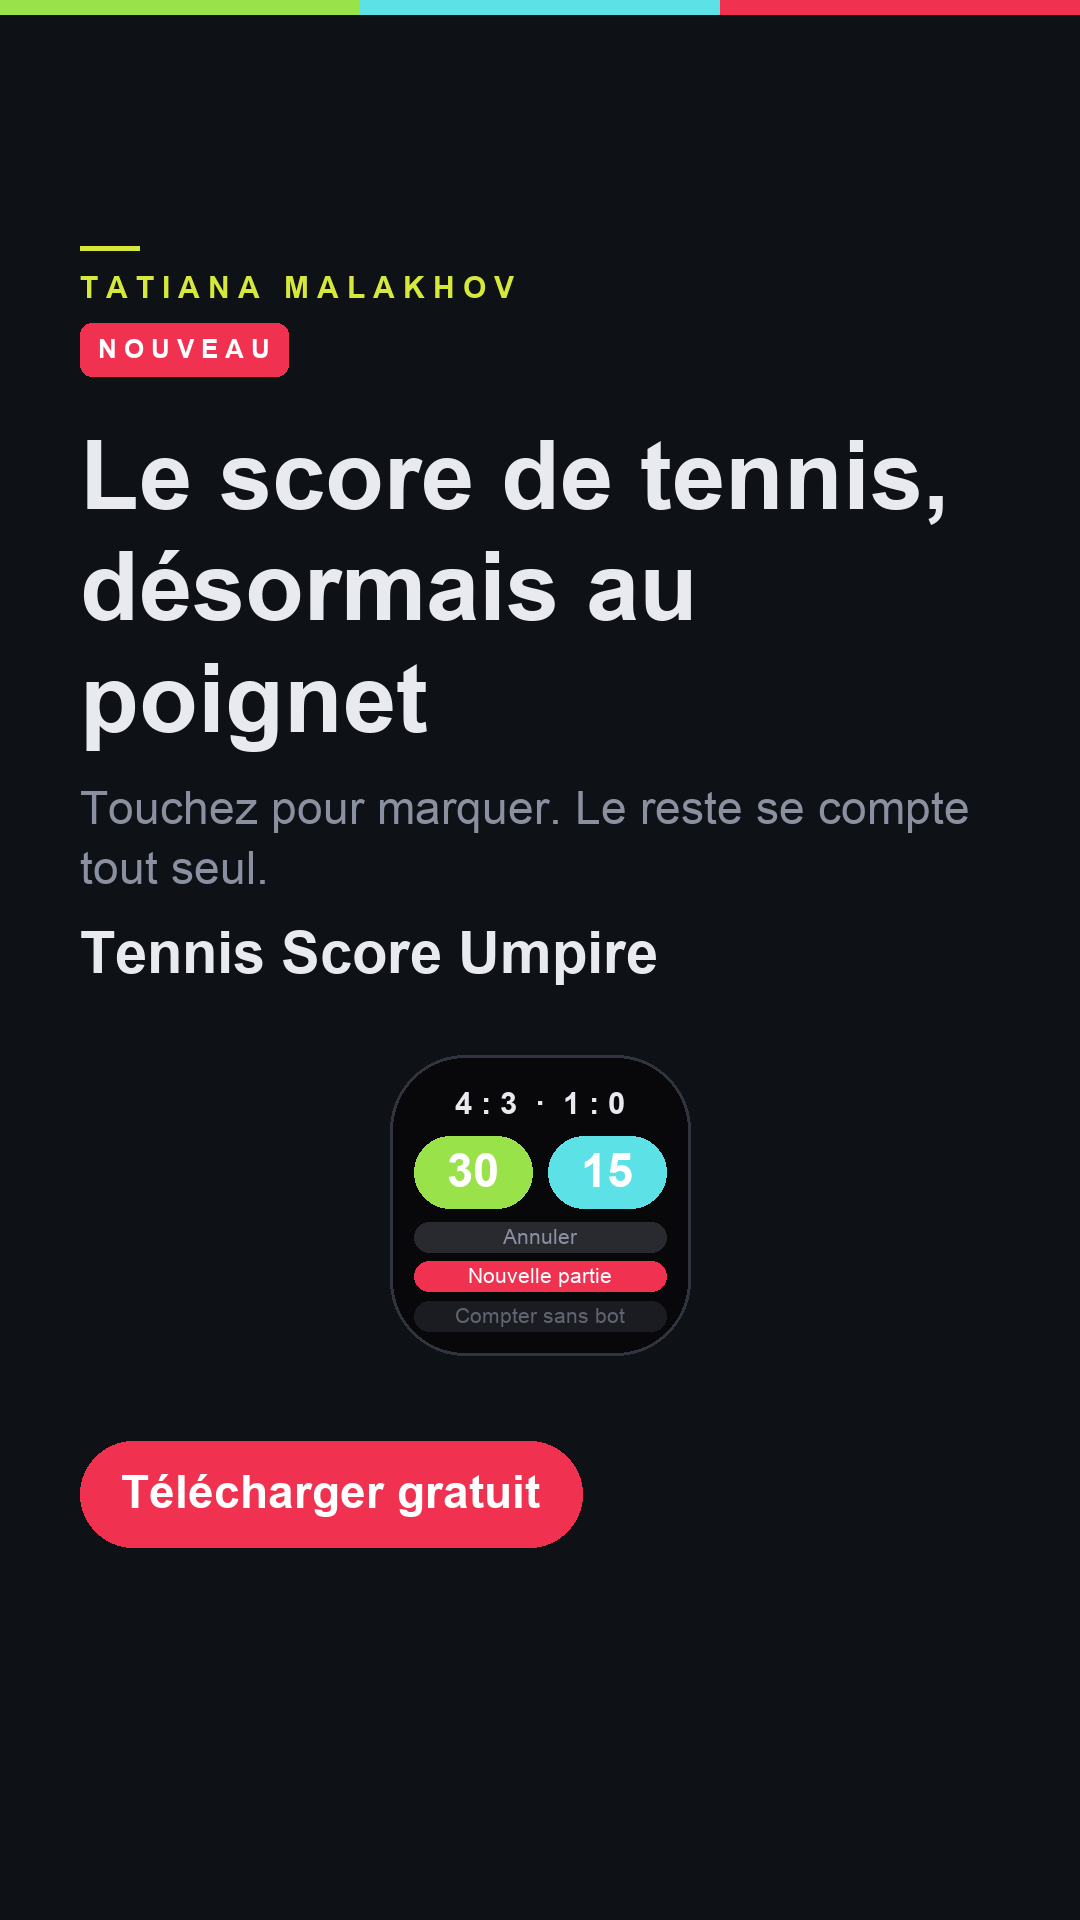
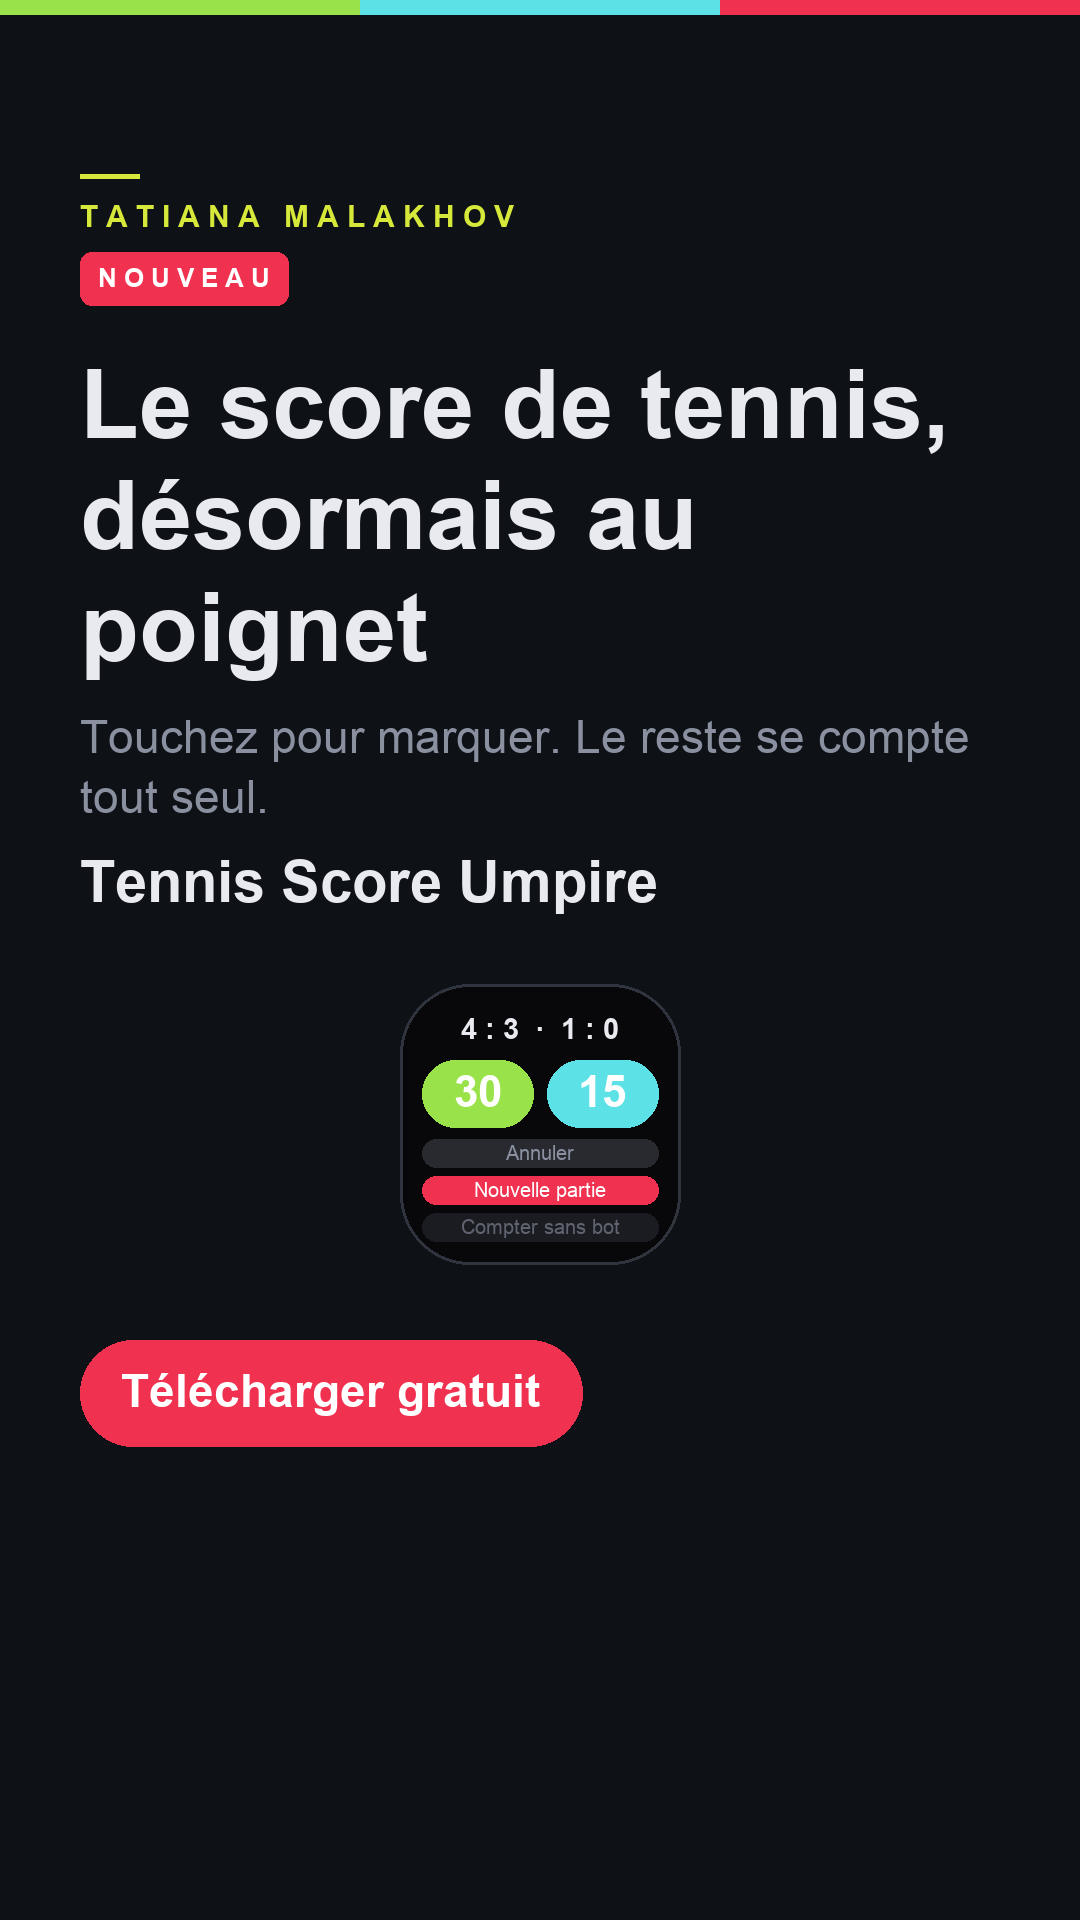
Текст выше, нижнее поле под квадрат стикера
Ссылку в историю вставляют квадратным стикером примерно в размер
экрана часов. Всё, что окажется под ним, пропадает, поэтому текст
поднят под самую шапку Telegram, а нижняя треть оставлена пустой.

Экран часов стал меньше: он здесь иллюстрация, а место внизу — рабочее.

Changed region(s): [[0.0611, 0.0938, 0.8861, 0.8125], [0.6111, 0.375, 0.8861, 0.4375]]

diff --git a/tools/make_card.py b/tools/make_card.py
@@ -46,8 +46,10 @@ TALL = {
     # reserve — пустая полоса внизу под квадратный стикер ссылки на
     # App Store. Его вставляют поверх картинки, и всё, что окажется под
     # ним, пропадёт: рисовать там что-либо значит рисовать в мусор.
-    "story": {"sign": 0.125, "title": 0.185, "watch": 0.42,
-              "size": 0.48, "cta": 0.78, "gap": 0.045, "reserve": 0.20},
+    # Текст поднят под самую шапку Telegram, чтобы внизу осталось поле
+    # под квадратный стикер ссылки — он размером примерно с экран часов.
+    "story": {"sign": 0.088, "title": 0.145, "watch": 0.40,
+              "size": 0.42, "cta": 0.76, "gap": 0.04, "reserve": 0.30},
 }
 SIZE = SHAPES["post"]
 
@@ -299,9 +301,9 @@ def card(title: str, subtitle: str = "", note: str = "",
             top = max(int(size[1] * plan["watch"]), int(y + size[1] * 0.03))
             screen = int(size[0] * plan["size"])
             room = cta_y - int(size[1] * plan["gap"]) - top
-            # Ниже трёхсот точек экран часов перестаёт читаться: на
-            # клавишах не разобрать ни счёта, ни подписей.
-            screen = max(300, min(screen, room))
+            # Ниже двухсот восьмидесяти экран часов перестаёт читаться:
+            # на клавишах не разобрать ни счёта, ни подписей.
+            screen = max(280, min(screen, room))
             watch(draw, (size[0] - screen) // 2, top, screen,
                   face[0], face[1], lang)
             bottom = top + screen
